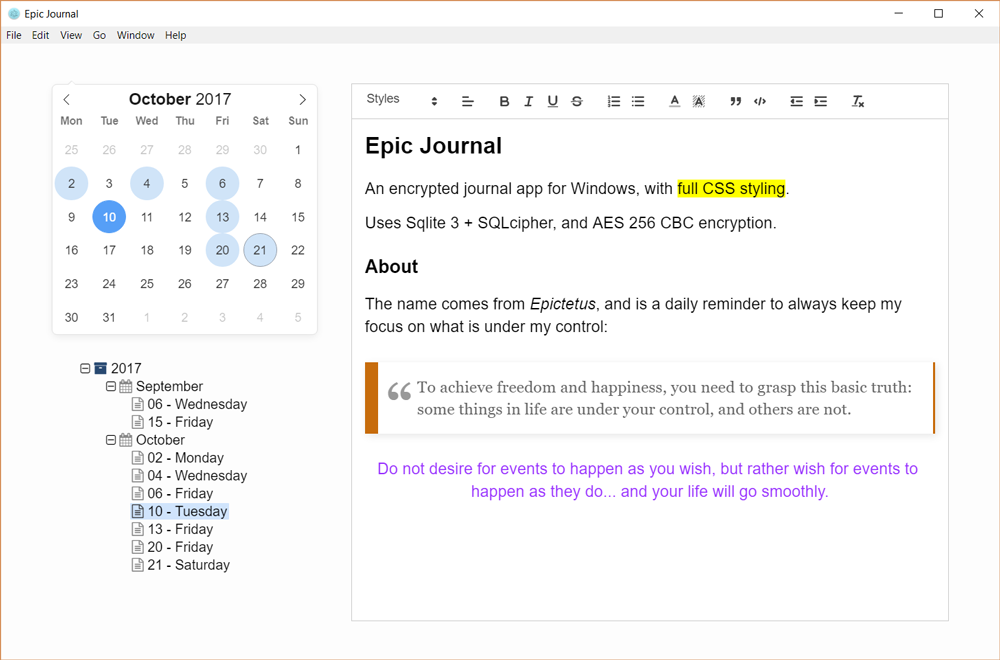
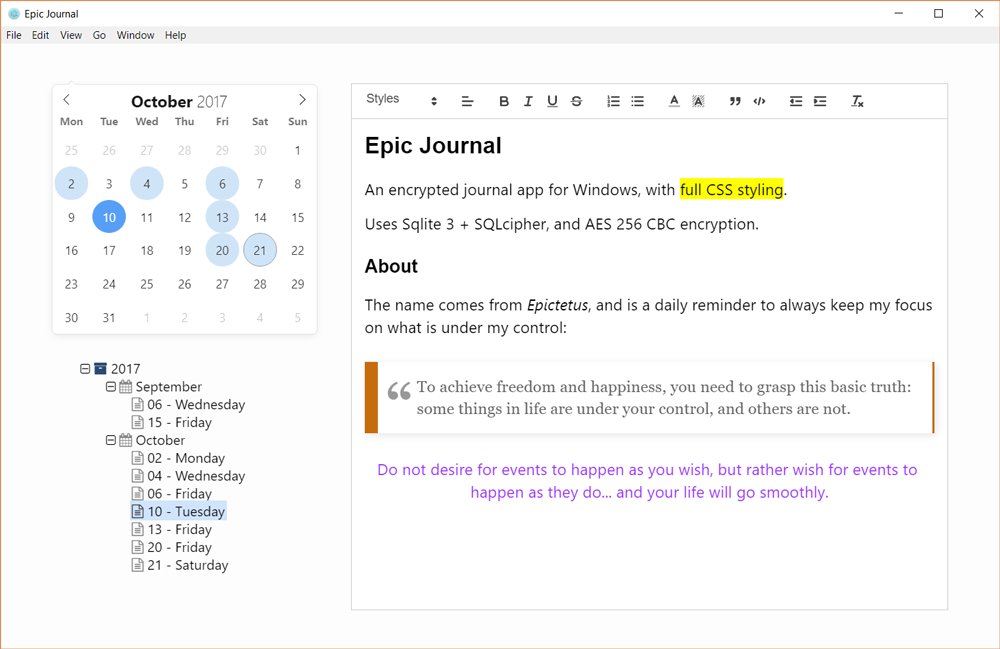
Updated default font

diff --git a/src/main/config.js b/src/main/config.js
@@ -19,13 +19,13 @@ let defaultStyles = [
     'name': 'Heading 2',
     'class': false,
     'element': 'h2',
-    'style': 'font-size: 18pt; margin-bottom: 0.7em;'
+    'style': 'font-size: 18pt; margin-bottom: 0.7em; margin-top: 1em;'
   },
   {
     'name': 'Heading 3',
     'class': false,
     'element': 'h3',
-    'style': 'font-size: 16pt; margin-bottom: 0.7em;'
+    'style': 'font-size: 16pt; margin-bottom: 0.7em; margin-top: 1em;'
   },
   {
     'name': 'Quote',

diff --git a/src/renderer/components/LandingPage.vue b/src/renderer/components/LandingPage.vue
@@ -257,7 +257,7 @@
     }
 
     body {
-        font-family: sans-serif;
+        font-family: 'Segoe UI', sans-serif;
         background: #FDFDFD;
     }
 
